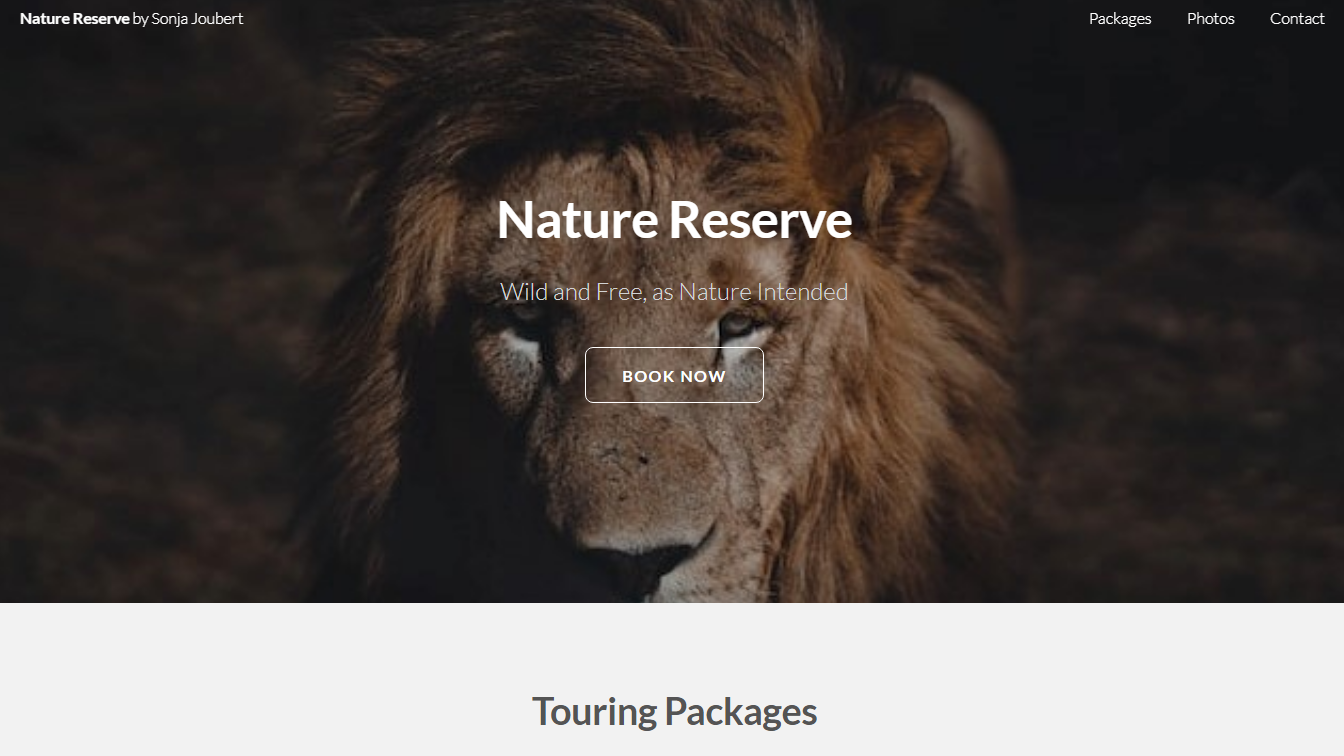
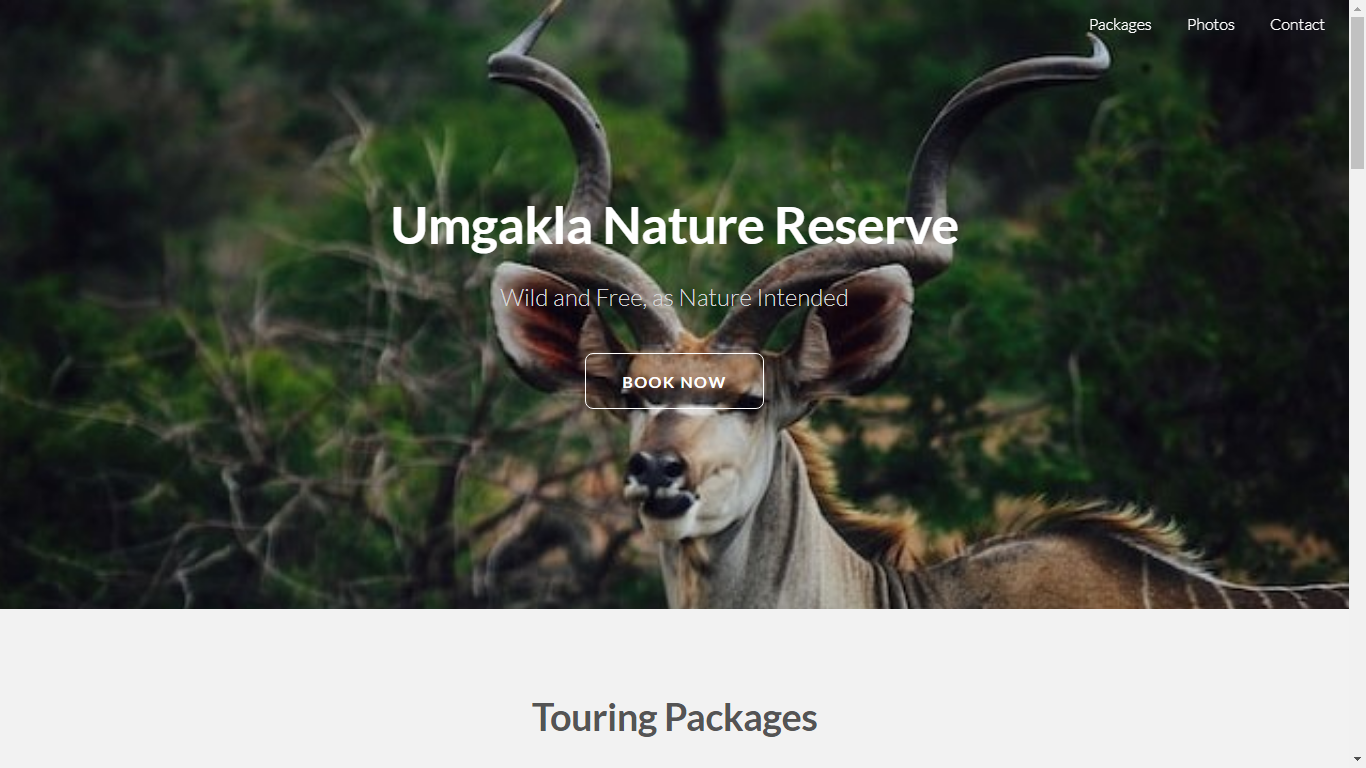
updated links

diff --git a/assets/css/main.css b/assets/css/main.css
@@ -2048,7 +2048,7 @@ input, select, textarea {
 		position: relative;
 	}
 
-		.image:before {
+		/* .image:before {
 			-moz-transition: opacity 0.2s ease-in-out;
 			-webkit-transition: opacity 0.2s ease-in-out;
 			-ms-transition: opacity 0.2s ease-in-out;
@@ -2063,13 +2063,13 @@ input, select, textarea {
 			position: absolute;
 			top: 0;
 			width: 100%;
-		}
+		} */
 
 		.image.thumb {
 			text-align: center;
 		}
 
-			.image.thumb:after {
+			/* .image.thumb:after {
 				-moz-transition: opacity 0.2s ease-in-out;
 				-webkit-transition: opacity 0.2s ease-in-out;
 				-ms-transition: opacity 0.2s ease-in-out;
@@ -2091,16 +2091,16 @@ input, select, textarea {
 				text-decoration: none;
 				top: 50%;
 				white-space: nowrap;
-			}
+			} */
 
-			.image.thumb:hover:after {
+			/* .image.thumb:hover:after {
 				opacity: 1.0;
 			}
 
 			.image.thumb:hover:before {
 				background: url("images/project01.png"), url("images/project01.png");
 				opacity: 1.0;
-			}
+			} */
 
 		.image img {
 			border-radius: 0.35em;

diff --git a/index.html b/index.html
@@ -48,7 +48,7 @@
 							</article>
 							<article class="col-6 col-12-xsmall work-item">
 								<a href="images/project02.png" class="image fit thumb"><img src="images/project02.png" alt="" /></a>
-								<h3><a href="https://naturereserve.netlify.app" target="_blank">Nature Reserve</a></h3>
+								<h3><a href="https://naturereserve.netlify.app" target="_blank">Umgakla Nature Reserve</a></h3>
 								<p>The wild Southern Africa.</p>
 							</article>
 						</div>
